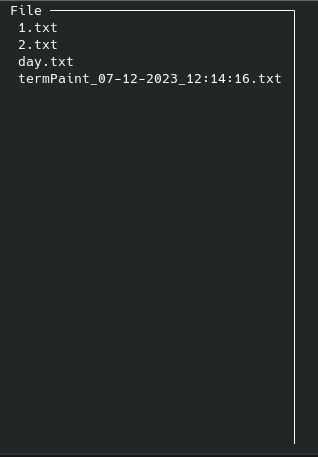
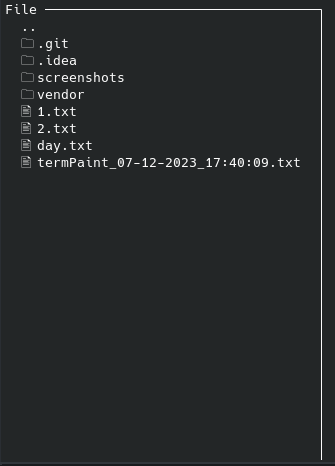
folder navigation fix

Changed region(s): [[0.0, 0.0, 0.9623, 0.9803], [0.7358, 0.1532, 0.8774, 0.1838], [0.5943, 0.1532, 0.7075, 0.1838]]

diff --git a/menu.go b/menu.go
@@ -27,7 +27,7 @@ const symbolX = 2
 
 func drawMenu(s *screen, screen [][]string) [][]string {
 	clearMenu(s, screen, menuWidth)
-	drawSymbolMenu(s, screen)
+	drawSymbolMenu(screen)
 	drawColorMenu(s, screen)
 	str := "Help " + strings.Repeat("─", menuWidth-len("Help ")) + "┤"
 	drawString(0, s.rows-2, str, screen)
@@ -36,12 +36,12 @@ func drawMenu(s *screen, screen [][]string) [][]string {
 	return screen
 }
 
-func drawSymbolMenu(s *screen, screen [][]string) [][]string {
+func drawSymbolMenu(screen [][]string) [][]string {
 	str := "Symbol " + strings.Repeat("─", menuWidth-len("symbol ")) + "┐"
 	drawString(0, 0, str, screen)
 	for y, line := range symbols {
 		for x, symbol := range line {
-			screen[y][x] = fgRgb(s.color["R"], s.color["G"], s.color["B"], symbol)
+			setByKeys(x, y, symbol, screen)
 		}
 	}
 
@@ -56,39 +56,39 @@ func drawColorMenu(s *screen, screen [][]string) [][]string {
 		drawString(3, y, strconv.Itoa(s.color[line]), screen)
 		switch line {
 		case "R":
-			screen[y][colorX] = fgRgb(s.color[line], 0, 0, "█")
+			setByKeys(colorX, y, fgRgb(s.color[line], 0, 0, "█"), screen)
 		case "G":
-			screen[y][colorX] = fgRgb(0, s.color[line], 0, "█")
+			setByKeys(colorX, y, fgRgb(0, s.color[line], 0, "█"), screen)
 		case "B":
-			screen[y][colorX] = fgRgb(0, 0, s.color[line], "█")
+			setByKeys(colorX, y, fgRgb(0, 0, s.color[line], "█"), screen)
 		}
 
 	}
-	screen[21][3] = fgRgb(s.color["R"], s.color["G"], s.color["B"], "█")
-	screen[21][4] = fgRgb(s.color["R"], s.color["G"], s.color["B"], "█")
-	screen[21][5] = fgRgb(s.color["R"], s.color["G"], s.color["B"], "█")
-	screen[22][3] = fgRgb(s.color["R"], s.color["G"], s.color["B"], "█")
-	screen[22][4] = fgRgb(s.color["R"], s.color["G"], s.color["B"], "█")
-	screen[22][5] = fgRgb(s.color["R"], s.color["G"], s.color["B"], "█")
+	setByKeys(3, 21, fgRgb(s.color["R"], s.color["G"], s.color["B"], "█"), screen)
+	setByKeys(4, 21, fgRgb(s.color["R"], s.color["G"], s.color["B"], "█"), screen)
+	setByKeys(5, 21, fgRgb(s.color["R"], s.color["G"], s.color["B"], "█"), screen)
+	setByKeys(3, 22, fgRgb(s.color["R"], s.color["G"], s.color["B"], "█"), screen)
+	setByKeys(4, 22, fgRgb(s.color["R"], s.color["G"], s.color["B"], "█"), screen)
+	setByKeys(5, 22, fgRgb(s.color["R"], s.color["G"], s.color["B"], "█"), screen)
 
 	return screen
 }
 
 func drawString(X int, Y int, val string, screen [][]string) [][]string {
 	str := strings.Split(val, "")
-	for k, i := range str {
-		screen[Y][X+k] = i
+	for k, symbol := range str {
+		setByKeys(X+k, Y, symbol, screen)
 	}
 
 	return screen
 }
 
 func clearMenu(s *screen, screen [][]string, width int) [][]string {
-	for i := 0; i < s.rows; i++ {
-		for j := 0; j < width; j++ {
-			screen[i][j] = " "
+	for y := 0; y < s.rows; y++ {
+		for x := 0; x < width; x++ {
+			setByKeys(x, y, " ", screen)
 		}
-		screen[i][width] = "│"
+		setByKeys(width, y, "│", screen)
 	}
 
 	return screen

diff --git a/menu_file.go b/menu_file.go
@@ -8,10 +8,13 @@ import (
 	"time"
 )
 
+const fileX = 2
+
 func fileList(s *screen, screen [][]string, path string) [][]string {
 	files, err := os.ReadDir(path)
 	if err != nil {
 		s.setMessage(err.Error())
+		s.dir = "./"
 	}
 
 	var width int
@@ -30,21 +33,21 @@ func fileList(s *screen, screen [][]string, path string) [][]string {
 			fileList = append(fileList, fileName)
 		}
 	}
-	s.fileListWidth = width + 4
+	s.fileListWidth = width + 6
 	clearMenu(s, screen, s.fileListWidth)
 	str := "File " + strings.Repeat("─", s.fileListWidth-len("File ")) + "┐"
 	drawString(0, 0, str, screen)
 	s.fileList = make(map[int]string, len(fileList)+len(dirList)+1)
-	s.fileList[2] = "../"
-	drawString(2, 2, "[..]", screen)
-	Y := 3
+	s.fileList[1] = "../"
+	drawString(fileX, 1, "..", screen)
+	Y := 2
 	for _, dirName := range dirList {
-		drawString(2, Y, fmt.Sprintf("[%v]", dirName), screen)
+		drawString(fileX, Y, fmt.Sprintf("🗀 %v", dirName), screen)
 		s.fileList[Y] = dirName + "/"
 		Y++
 	}
 	for y, fileName := range fileList {
-		drawString(2, Y+y, fileName, screen)
+		drawString(fileX, Y+y, fmt.Sprintf("🖹 %v", fileName), screen)
 		s.fileList[Y+y] = fileName
 	}
 
@@ -140,7 +143,6 @@ func loadColored(lines []string, rows int, s *screen, errors map[string]string) 
 				if len(str) > 0 {
 					pixel := pixel{X: x, Y: y, symbol: str + reset}
 					s.pixels = append(s.pixels, pixel)
-					fmt.Println(x, y, pixel)
 					skip = len(reset) - 1
 					str = ""
 					continue

diff --git a/main.go b/main.go
@@ -101,9 +101,7 @@ func (s *screen) View() string {
 	}
 
 	for _, p := range s.pixels {
-		if p.Y < len(screen) && p.X < len(screen[p.Y]) {
-			screen[p.Y][p.X] = p.symbol
-		}
+		setByKeys(p.X, p.Y, p.symbol, screen)
 	}
 	if s.showMenu {
 		drawMenu(s, screen)
@@ -150,4 +148,16 @@ func fgRgb(r int, g int, b int, symbol string) string {
 		return symbol
 	}
 	return "\033[38;2;" + strconv.Itoa(r) + ";" + strconv.Itoa(g) + ";" + strconv.Itoa(b) + "m" + symbol + reset
+}
+
+func isset(arr [][]string, first int, second int) bool {
+	return first < len(arr) && second < len(arr[first])
+}
+
+func setByKeys(X int, Y int, val string, screen [][]string) [][]string {
+	if isset(screen, Y, X) {
+		screen[Y][X] = val
+	}
+
+	return screen
 }

diff --git a/message.go b/message.go
@@ -26,11 +26,11 @@ func drawMsg(messages []message, width int, screen [][]string) [][]string {
 }
 
 func clearMessage(screen [][]string, width int, height int) [][]string {
-	for i := 0; i < height; i++ {
-		for j := 0; j < width; j++ {
-			screen[i][j] = " "
+	for y := 0; y < height; y++ {
+		for x := 0; x < width; x++ {
+			setByKeys(x, y, " ", screen)
 		}
-		screen[i][width] = "│"
+		setByKeys(width, y, "│", screen)
 	}
 	drawString(0, height, strings.Repeat("─", width)+"┘", screen)
 

diff --git a/mouse_left.go b/mouse_left.go
@@ -16,10 +16,9 @@ func mouseLeft(msg tea.MouseMsg, s *screen) {
 		}
 	} else if s.showFile && msg.X < s.fileListWidth {
 		if file, ok := s.fileList[msg.Y]; ok {
-			content, err := os.ReadFile(file)
+			content, err := os.ReadFile(s.dir + file)
 			if err != nil {
 				s.dir += file
-				//s.setMessage(err.Error())
 			} else {
 				s.showFile = false
 			}
